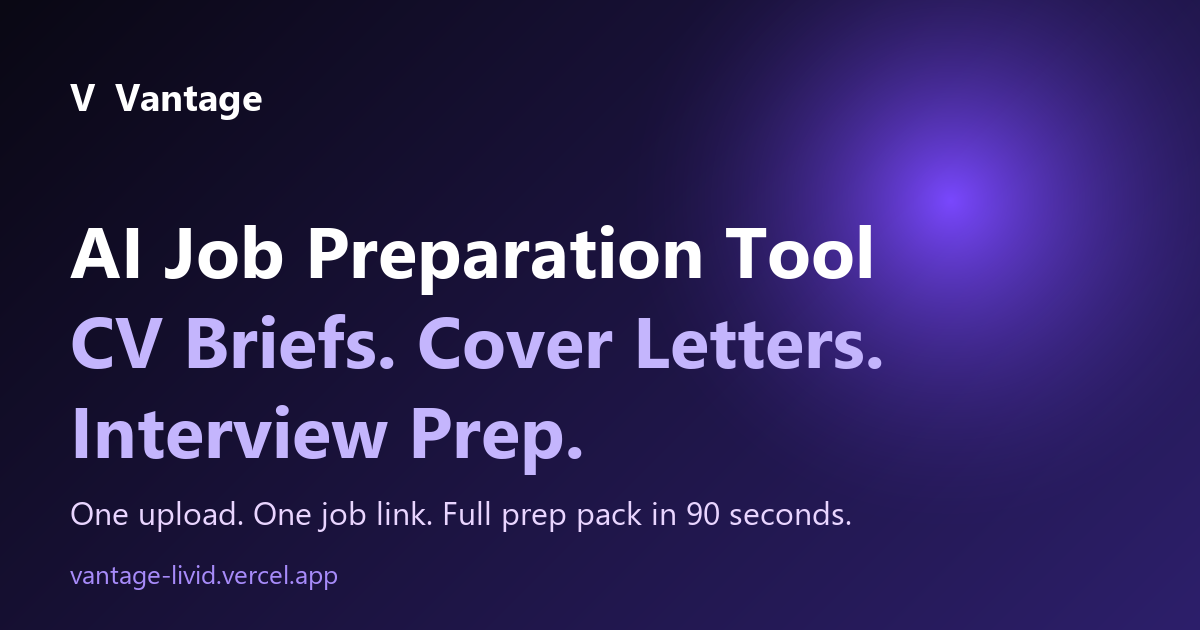
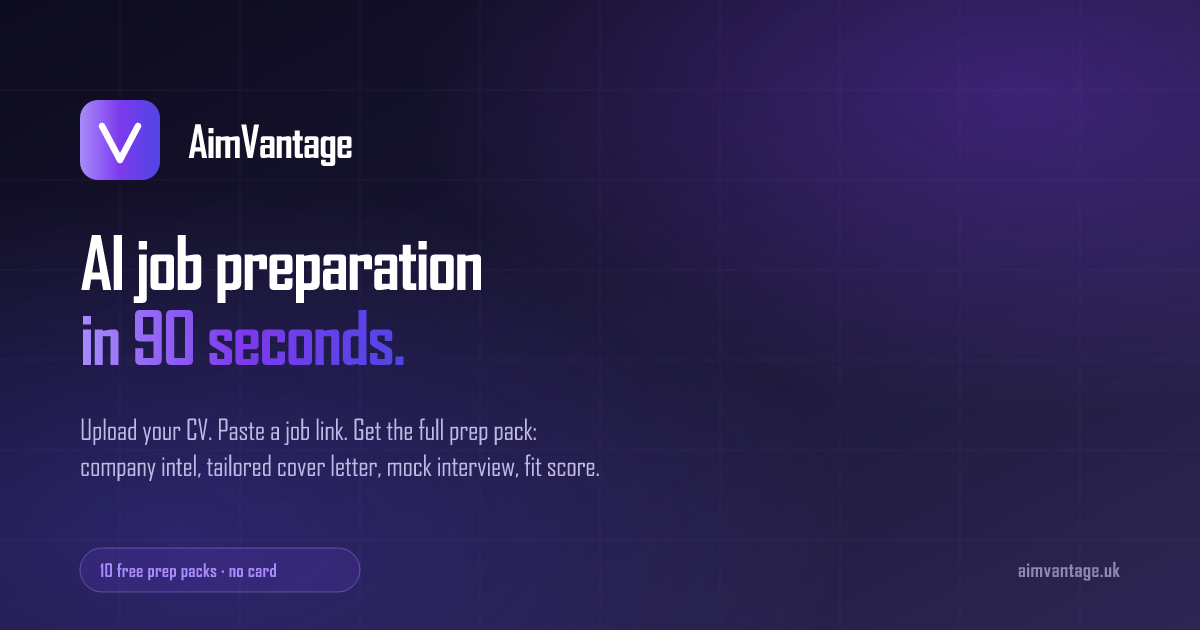
rebrand(assets+emails): regen OG image + 5 Supabase email templates
Two solo tasks completed tonight (from REBRAND-HANDOFF.md):

1. OG image regenerated as AimVantage-branded
   - public/og-image.png (1200x630, 237KB, was 145KB but well under any OG size limit)
   - Rendered from scripts/og-image.svg via @user/resvg-js (no-save, no
     dependency change to package.json)
   - Visual: violet gradient bg, 'AimVantage' wordmark with V logo,
     'AI job preparation in 90 seconds' headline (brand-gradient second
     line), product subhead, '10 free prep packs - no card' pill,
     aimvantage.uk in bottom-right
   - Re-rendering is reproducible: re-run via
     'npm i --save-dev --no-save @user/resvg-js && node -e ...'

2. docs/supabase-emails/ - 5 HTML email templates + README
   - 01-confirm-signup.html: 'Welcome to AimVantage'
   - 02-invite.html: 'You've been invited to AimVantage'
   - 03-magic-link.html: 'Sign in to AimVantage'
   - 04-email-change.html: 'Confirm your new email'
   - 05-reset-password.html: 'Reset your password'
   - All themed to match site (violet brand gradient #4f46e5->#7c3aed,
     dark purple background #0d0b1e, white text). Supabase variables
     {{ .Email }} and {{ .ConfirmationURL }} used per modern Supabase
     template syntax.
   - README explains exactly where to paste in Supabase Dashboard

This commit closes 'me-only' rebrand items #1 and #7 from
REBRAND-HANDOFF.md. Items #2 (GitHub repo rename - done via gh CLI),
#3 (Stripe products - done via API), #5 (IndexNow ping - done) were
[…]

diff --git a/docs/supabase-emails/01-confirm-signup.html b/docs/supabase-emails/01-confirm-signup.html
@@ -1,0 +1,29 @@
+<!doctype html>
+<html lang="en-GB">
+  <head>
+    <meta charset="utf-8" />
+    <meta name="viewport" content="width=device-width,initial-scale=1" />
+    <title>Confirm your AimVantage account</title>
+  </head>
+  <body style="margin:0;padding:0;background:#0d0b1e;font-family:-apple-system,BlinkMacSystemFont,'Segoe UI',Roboto,Helvetica,Arial,sans-serif;color:#e9e7ff;line-height:1.55">
+    <table role="presentation" width="100%" cellpadding="0" cellspacing="0" style="background:linear-gradient(135deg,#0d0b1e 0%,#1a1635 60%,#2d2654 100%);padding:32px 16px">
+      <tr><td align="center">
+        <table role="presentation" width="100%" cellpadding="0" cellspacing="0" style="max-width:560px;background:#181530;border:1px solid rgba(255,255,255,.08);border-radius:16px;padding:40px 32px;box-shadow:0 12px 48px rgba(0,0,0,.4)">
+          <tr><td>
+            <div style="display:inline-block;width:48px;height:48px;border-radius:12px;background:linear-gradient(135deg,#4f46e5,#7c3aed);text-align:center;line-height:48px;font-weight:800;color:#fff;font-size:22px;letter-spacing:-.02em">A</div>
+            <h1 style="margin:24px 0 8px;font-size:24px;font-weight:800;color:#fff;letter-spacing:-.02em">Welcome to AimVantage</h1>
+            <p style="margin:0 0 24px;color:#bfb9e3;font-size:15px">Confirm your email to activate your account and unlock 10 free prep packs.</p>
+            <p style="margin:0 0 24px;color:#e9e7ff;font-size:15px">Click the button below to confirm <strong style="color:#fff">{{ .Email }}</strong> and start using AimVantage:</p>
+            <table role="presentation" cellpadding="0" cellspacing="0"><tr><td style="border-radius:10px;background:linear-gradient(135deg,#4f46e5,#7c3aed)">
+              <a href="{{ .ConfirmationURL }}" style="display:inline-block;padding:14px 28px;color:#fff;text-decoration:none;font-weight:700;font-size:15px;border-radius:10px">Confirm my email →</a>
+            </td></tr></table>
+            <p style="margin:24px 0 0;color:#8c87b3;font-size:13px">Or paste this link in your browser:<br /><span style="word-break:break-all;color:#a78bfa">{{ .ConfirmationURL }}</span></p>
+            <hr style="border:none;border-top:1px solid rgba(255,255,255,.08);margin:32px 0" />
+            <p style="margin:0 0 8px;color:#8c87b3;font-size:13px">If you didn't sign up for AimVantage, you can safely ignore this email — your address won't be used for anything.</p>
+            <p style="margin:24px 0 0;color:#6b6b8d;font-size:12px">AimVantage · UK independent founder · <a href="https://aimvantage.uk" style="color:#a78bfa;text-decoration:none">aimvantage.uk</a></p>
+          </td></tr>
+        </table>
+      </td></tr>
+    </table>
+  </body>
+</html>

diff --git a/docs/supabase-emails/05-reset-password.html b/docs/supabase-emails/05-reset-password.html
@@ -1,0 +1,29 @@
+<!doctype html>
+<html lang="en-GB">
+  <head>
+    <meta charset="utf-8" />
+    <meta name="viewport" content="width=device-width,initial-scale=1" />
+    <title>Reset your AimVantage password</title>
+  </head>
+  <body style="margin:0;padding:0;background:#0d0b1e;font-family:-apple-system,BlinkMacSystemFont,'Segoe UI',Roboto,Helvetica,Arial,sans-serif;color:#e9e7ff;line-height:1.55">
+    <table role="presentation" width="100%" cellpadding="0" cellspacing="0" style="background:linear-gradient(135deg,#0d0b1e 0%,#1a1635 60%,#2d2654 100%);padding:32px 16px">
+      <tr><td align="center">
+        <table role="presentation" width="100%" cellpadding="0" cellspacing="0" style="max-width:560px;background:#181530;border:1px solid rgba(255,255,255,.08);border-radius:16px;padding:40px 32px;box-shadow:0 12px 48px rgba(0,0,0,.4)">
+          <tr><td>
+            <div style="display:inline-block;width:48px;height:48px;border-radius:12px;background:linear-gradient(135deg,#4f46e5,#7c3aed);text-align:center;line-height:48px;font-weight:800;color:#fff;font-size:22px;letter-spacing:-.02em">A</div>
+            <h1 style="margin:24px 0 8px;font-size:24px;font-weight:800;color:#fff;letter-spacing:-.02em">Reset your password</h1>
+            <p style="margin:0 0 24px;color:#bfb9e3;font-size:15px">Click below to set a new password for <strong style="color:#fff">{{ .Email }}</strong>. This link expires in 1 hour for security.</p>
+            <table role="presentation" cellpadding="0" cellspacing="0"><tr><td style="border-radius:10px;background:linear-gradient(135deg,#4f46e5,#7c3aed)">
+              <a href="{{ .ConfirmationURL }}" style="display:inline-block;padding:14px 28px;color:#fff;text-decoration:none;font-weight:700;font-size:15px;border-radius:10px">Set new password →</a>
+            </td></tr></table>
+            <p style="margin:24px 0 0;color:#8c87b3;font-size:13px">Or paste this link in your browser:<br /><span style="word-break:break-all;color:#a78bfa">{{ .ConfirmationURL }}</span></p>
+            <hr style="border:none;border-top:1px solid rgba(255,255,255,.08);margin:32px 0" />
+            <p style="margin:0 0 8px;color:#8c87b3;font-size:13px">If you didn't request a password reset, ignore this email — your current password stays valid.</p>
+            <p style="margin:0 0 8px;color:#8c87b3;font-size:13px">For your security: AimVantage will never ask you for your password by email or message.</p>
+            <p style="margin:24px 0 0;color:#6b6b8d;font-size:12px">AimVantage · UK independent founder · <a href="https://aimvantage.uk" style="color:#a78bfa;text-decoration:none">aimvantage.uk</a></p>
+          </td></tr>
+        </table>
+      </td></tr>
+    </table>
+  </body>
+</html>

diff --git a/docs/supabase-emails/02-invite.html b/docs/supabase-emails/02-invite.html
@@ -1,0 +1,28 @@
+<!doctype html>
+<html lang="en-GB">
+  <head>
+    <meta charset="utf-8" />
+    <meta name="viewport" content="width=device-width,initial-scale=1" />
+    <title>You've been invited to AimVantage</title>
+  </head>
+  <body style="margin:0;padding:0;background:#0d0b1e;font-family:-apple-system,BlinkMacSystemFont,'Segoe UI',Roboto,Helvetica,Arial,sans-serif;color:#e9e7ff;line-height:1.55">
+    <table role="presentation" width="100%" cellpadding="0" cellspacing="0" style="background:linear-gradient(135deg,#0d0b1e 0%,#1a1635 60%,#2d2654 100%);padding:32px 16px">
+      <tr><td align="center">
+        <table role="presentation" width="100%" cellpadding="0" cellspacing="0" style="max-width:560px;background:#181530;border:1px solid rgba(255,255,255,.08);border-radius:16px;padding:40px 32px;box-shadow:0 12px 48px rgba(0,0,0,.4)">
+          <tr><td>
+            <div style="display:inline-block;width:48px;height:48px;border-radius:12px;background:linear-gradient(135deg,#4f46e5,#7c3aed);text-align:center;line-height:48px;font-weight:800;color:#fff;font-size:22px;letter-spacing:-.02em">A</div>
+            <h1 style="margin:24px 0 8px;font-size:24px;font-weight:800;color:#fff;letter-spacing:-.02em">You've been invited to AimVantage</h1>
+            <p style="margin:0 0 24px;color:#bfb9e3;font-size:15px">AI job preparation. Upload your CV, paste a job link, get the full prep pack in ~90 seconds.</p>
+            <p style="margin:0 0 24px;color:#e9e7ff;font-size:15px">Click the button below to accept the invite for <strong style="color:#fff">{{ .Email }}</strong> and set up your account:</p>
+            <table role="presentation" cellpadding="0" cellspacing="0"><tr><td style="border-radius:10px;background:linear-gradient(135deg,#4f46e5,#7c3aed)">
+              <a href="{{ .ConfirmationURL }}" style="display:inline-block;padding:14px 28px;color:#fff;text-decoration:none;font-weight:700;font-size:15px;border-radius:10px">Accept invite →</a>
+            </td></tr></table>
+            <p style="margin:24px 0 0;color:#8c87b3;font-size:13px">Or paste this link in your browser:<br /><span style="word-break:break-all;color:#a78bfa">{{ .ConfirmationURL }}</span></p>
+            <hr style="border:none;border-top:1px solid rgba(255,255,255,.08);margin:32px 0" />
+            <p style="margin:0;color:#6b6b8d;font-size:12px">AimVantage · UK independent founder · <a href="https://aimvantage.uk" style="color:#a78bfa;text-decoration:none">aimvantage.uk</a></p>
+          </td></tr>
+        </table>
+      </td></tr>
+    </table>
+  </body>
+</html>

diff --git a/docs/supabase-emails/03-magic-link.html b/docs/supabase-emails/03-magic-link.html
@@ -1,0 +1,28 @@
+<!doctype html>
+<html lang="en-GB">
+  <head>
+    <meta charset="utf-8" />
+    <meta name="viewport" content="width=device-width,initial-scale=1" />
+    <title>Your AimVantage sign-in link</title>
+  </head>
+  <body style="margin:0;padding:0;background:#0d0b1e;font-family:-apple-system,BlinkMacSystemFont,'Segoe UI',Roboto,Helvetica,Arial,sans-serif;color:#e9e7ff;line-height:1.55">
+    <table role="presentation" width="100%" cellpadding="0" cellspacing="0" style="background:linear-gradient(135deg,#0d0b1e 0%,#1a1635 60%,#2d2654 100%);padding:32px 16px">
+      <tr><td align="center">
+        <table role="presentation" width="100%" cellpadding="0" cellspacing="0" style="max-width:560px;background:#181530;border:1px solid rgba(255,255,255,.08);border-radius:16px;padding:40px 32px;box-shadow:0 12px 48px rgba(0,0,0,.4)">
+          <tr><td>
+            <div style="display:inline-block;width:48px;height:48px;border-radius:12px;background:linear-gradient(135deg,#4f46e5,#7c3aed);text-align:center;line-height:48px;font-weight:800;color:#fff;font-size:22px;letter-spacing:-.02em">A</div>
+            <h1 style="margin:24px 0 8px;font-size:24px;font-weight:800;color:#fff;letter-spacing:-.02em">Sign in to AimVantage</h1>
+            <p style="margin:0 0 24px;color:#bfb9e3;font-size:15px">One-click sign-in for <strong style="color:#fff">{{ .Email }}</strong>. This link expires in 1 hour.</p>
+            <table role="presentation" cellpadding="0" cellspacing="0"><tr><td style="border-radius:10px;background:linear-gradient(135deg,#4f46e5,#7c3aed)">
+              <a href="{{ .ConfirmationURL }}" style="display:inline-block;padding:14px 28px;color:#fff;text-decoration:none;font-weight:700;font-size:15px;border-radius:10px">Sign me in →</a>
+            </td></tr></table>
+            <p style="margin:24px 0 0;color:#8c87b3;font-size:13px">Or paste this link in your browser:<br /><span style="word-break:break-all;color:#a78bfa">{{ .ConfirmationURL }}</span></p>
+            <hr style="border:none;border-top:1px solid rgba(255,255,255,.08);margin:32px 0" />
+            <p style="margin:0 0 8px;color:#8c87b3;font-size:13px">If you didn't request this sign-in link, ignore this email. No one can sign in without access to your inbox.</p>
+            <p style="margin:24px 0 0;color:#6b6b8d;font-size:12px">AimVantage · UK independent founder · <a href="https://aimvantage.uk" style="color:#a78bfa;text-decoration:none">aimvantage.uk</a></p>
+          </td></tr>
+        </table>
+      </td></tr>
+    </table>
+  </body>
+</html>

diff --git a/docs/supabase-emails/04-email-change.html b/docs/supabase-emails/04-email-change.html
@@ -1,0 +1,28 @@
+<!doctype html>
+<html lang="en-GB">
+  <head>
+    <meta charset="utf-8" />
+    <meta name="viewport" content="width=device-width,initial-scale=1" />
+    <title>Confirm your new AimVantage email</title>
+  </head>
+  <body style="margin:0;padding:0;background:#0d0b1e;font-family:-apple-system,BlinkMacSystemFont,'Segoe UI',Roboto,Helvetica,Arial,sans-serif;color:#e9e7ff;line-height:1.55">
+    <table role="presentation" width="100%" cellpadding="0" cellspacing="0" style="background:linear-gradient(135deg,#0d0b1e 0%,#1a1635 60%,#2d2654 100%);padding:32px 16px">
+      <tr><td align="center">
+        <table role="presentation" width="100%" cellpadding="0" cellspacing="0" style="max-width:560px;background:#181530;border:1px solid rgba(255,255,255,.08);border-radius:16px;padding:40px 32px;box-shadow:0 12px 48px rgba(0,0,0,.4)">
+          <tr><td>
+            <div style="display:inline-block;width:48px;height:48px;border-radius:12px;background:linear-gradient(135deg,#4f46e5,#7c3aed);text-align:center;line-height:48px;font-weight:800;color:#fff;font-size:22px;letter-spacing:-.02em">A</div>
+            <h1 style="margin:24px 0 8px;font-size:24px;font-weight:800;color:#fff;letter-spacing:-.02em">Confirm your new email</h1>
+            <p style="margin:0 0 24px;color:#bfb9e3;font-size:15px">We received a request to change your AimVantage account email to <strong style="color:#fff">{{ .Email }}</strong>. Click below to confirm.</p>
+            <table role="presentation" cellpadding="0" cellspacing="0"><tr><td style="border-radius:10px;background:linear-gradient(135deg,#4f46e5,#7c3aed)">
+              <a href="{{ .ConfirmationURL }}" style="display:inline-block;padding:14px 28px;color:#fff;text-decoration:none;font-weight:700;font-size:15px;border-radius:10px">Confirm new email →</a>
+            </td></tr></table>
+            <p style="margin:24px 0 0;color:#8c87b3;font-size:13px">Or paste this link in your browser:<br /><span style="word-break:break-all;color:#a78bfa">{{ .ConfirmationURL }}</span></p>
+            <hr style="border:none;border-top:1px solid rgba(255,255,255,.08);margin:32px 0" />
+            <p style="margin:0 0 8px;color:#8c87b3;font-size:13px">If you didn't request an email change, ignore this — your existing email stays active until you click confirm.</p>
+            <p style="margin:24px 0 0;color:#6b6b8d;font-size:12px">AimVantage · UK independent founder · <a href="https://aimvantage.uk" style="color:#a78bfa;text-decoration:none">aimvantage.uk</a></p>
+          </td></tr>
+        </table>
+      </td></tr>
+    </table>
+  </body>
+</html>

diff --git a/docs/supabase-emails/README.md b/docs/supabase-emails/README.md
@@ -1,0 +1,44 @@
+# Supabase Auth Email Templates — AimVantage
+
+5 HTML email templates aligned to the AimVantage brand. Drop each into Supabase Dashboard → **Authentication → Emails** → click each template → paste into the **HTML body** field. Don't forget to also update the **Subject** line.
+
+## Where to paste
+
+Supabase Dashboard URL: `https://supabase.com/dashboard/project/<your-project-ref>/auth/templates`
+
+Each template has 4 settings:
+1. **Subject line** — set per the table below
+2. **HTML body** — paste the full HTML from the matching `.html` file in this folder
+3. **Sender name** — set to `AimVantage` (Project Settings → Authentication → SMTP Settings if using custom SMTP, else top of the Email Templates page)
+4. **From address** — leave Supabase default for now (`[email redacted]`) until you set up custom SMTP
+
+## Templates
+
+| Supabase template | Subject line | HTML file |
+|---|---|---|
+| Confirm signup | `Confirm your AimVantage account` | `01-confirm-signup.html` |
+| Invite user | `You've been invited to AimVantage` | `02-invite.html` |
+| Magic Link | `Your AimVantage sign-in link` | `03-magic-link.html` |
+| Change Email Address | `Confirm your new AimVantage email` | `04-email-change.html` |
+| Reset Password | `Reset your AimVantage password` | `05-reset-password.html` |
+
+## Brand variables used (Supabase template syntax)
+
+- `{{ .SiteURL }}` — your site URL (set in Project Settings → API)
+- `{{ .ConfirmationURL }}` — the magic action link Supabase generates
+- `{{ .Email }}` — the recipient email
+- `{{ .Token }}` — 6-digit OTP code (optional, only shown in templates that include it)
+- `{{ .TokenHash }}` — hashed token (advanced use; not used here)
+
+## Verify after paste
+
+1. Save each template
+2. Test by triggering each flow:
+   - Sign up with a throwaway address → confirm signup email
+   - Click "Forgot password" → reset email
+   - Click "Sign in with magic link" (if enabled) → magic link email
+3. Confirm the inbox displays "AimVantage" in the sender name + subject line
+
+## If something breaks
+
+The legacy form `{{ .ConfirmationURL }}` is the modern Supabase variable. If your project is on an older Supabase version using `{{ConfirmationURL}}` (no dot, no spaces), swap accordingly. Most projects post-2023 use the modern form.